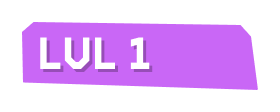
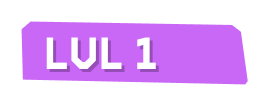
Integrated new level button assets

diff --git a/core/src/edu/cornell/gdiac/rabbeat/LevelSelectorScreen.java b/core/src/edu/cornell/gdiac/rabbeat/LevelSelectorScreen.java
@@ -119,97 +119,49 @@ public class LevelSelectorScreen extends ScreenAdapter {
             switch(i) {
                 case(1):
 //                    hoverButton.setPosition(415, background.getHeight()-hoverButton.getHeight()-161);
-                    levelButton.setPosition(478, background.getHeight()-levelButton.getHeight()-200);
+                    levelButton.setPosition(476.5f, background.getHeight()-levelButton.getHeight()-200.5f);
                     break;
                 case(2):
 //                    hoverButton.setPosition(414, background.getHeight()-hoverButton.getHeight()-213);
-                    levelButton.setPosition(464, background.getHeight()-levelButton.getHeight()-266);
+                    levelButton.setPosition(463.5f, background.getHeight()-levelButton.getHeight()-270);
                     break;
                 case(3):
 //                    hoverButton.setPosition(420, background.getHeight()-hoverButton.getHeight()-227);
-                    levelButton.setPosition(483, background.getHeight()-levelButton.getHeight()-311-3);
+                    levelButton.setPosition(484.5f, background.getHeight()-levelButton.getHeight()-315);
                     break;
                 case(4):
-                    levelButton.setPosition(475, background.getHeight()-levelButton.getHeight()-374-10);
+                    levelButton.setPosition(477.5f, background.getHeight()-levelButton.getHeight()-374.5f);
                     break;
                 case(5):
-                    levelButton.setPosition(750, background.getHeight()-levelButton.getHeight()-214);
+                    levelButton.setPosition(748.5f, background.getHeight()-levelButton.getHeight()-215);
                     break;
                 case(6):
-                    levelButton.setPosition(789, background.getHeight()-levelButton.getHeight()-274);
+                    levelButton.setPosition(788.5f, background.getHeight()-levelButton.getHeight()-276.5f);
                     break;
                 case(7):
-                    levelButton.setPosition(737, background.getHeight()-levelButton.getHeight()-322);
+                    levelButton.setPosition(743, background.getHeight()-levelButton.getHeight()-326);
                     break;
                 case(8):
-                    levelButton.setPosition(734, background.getHeight()-levelButton.getHeight()-390);
+                    levelButton.setPosition(734.5f, background.getHeight()-levelButton.getHeight()-390);
                     break;
                 case(9):
-                    levelButton.setPosition(1024, background.getHeight()-levelButton.getHeight()-209);
+                    levelButton.setPosition(1025.5f, background.getHeight()-levelButton.getHeight()-211);
                     break;
                 case(10):
-                    levelButton.setPosition(1030, background.getHeight()-levelButton.getHeight()-278);
+                    levelButton.setPosition(1031.5f, background.getHeight()-levelButton.getHeight()-280.5f);
                     break;
                 case(11):
-                    levelButton.setPosition(1010, background.getHeight()-levelButton.getHeight()-324);
+                    levelButton.setPosition(1014, background.getHeight()-levelButton.getHeight()-324.5f);
                     break;
                 case(12):
-                    levelButton.setPosition(1029, background.getHeight()-levelButton.getHeight()-387);
+                    levelButton.setPosition(1034.5f, background.getHeight()-levelButton.getHeight()-389.5f);
                     break;
-                  //OLD BUTTONS
-//                case(1):
-//                    levelButton.setPosition(483, background.getHeight()-levelButton.getHeight()-206);
-//                    break;
-//                case(2):
-//                    levelButton.setPosition(469, background.getHeight()-levelButton.getHeight()-271);
-//                    break;
-//                case(3):
-//                    levelButton.setPosition(491, background.getHeight()-levelButton.getHeight()-329);
-//                    break;
-//                case(4):
-//                    levelButton.setPosition(485, background.getHeight()-levelButton.getHeight()-384);
-//                    break;
-//                case(5):
-//                    levelButton.setPosition(760, background.getHeight()-levelButton.getHeight()-230);
-//                    break;
-//                case(6):
-//                    levelButton.setPosition(789, background.getHeight()-levelButton.getHeight()-288);
-//                    break;
-//                case(7):
-//                    levelButton.setPosition(750, background.getHeight()-levelButton.getHeight()-342);
-//                    break;
-//                case(8):
-//                    levelButton.setPosition(750, background.getHeight()-levelButton.getHeight()-397);
-//                    break;
-//                case(9):
-//                    levelButton.setPosition(1041, background.getHeight()-levelButton.getHeight()-228);
-//                    break;
-//                case(10):
-//                    levelButton.setPosition(1036, background.getHeight()-levelButton.getHeight()-281);
-//                    break;
-//                case(11):
-//                    levelButton.setPosition(1024, background.getHeight()-levelButton.getHeight()-337);
-//                    break;
-//                case(12):
-//                    levelButton.setPosition(1041, background.getHeight()-levelButton.getHeight()-397);
-//                    break;
             }
 
 
-//            levelButton.addListener(new ClickListener() {
-//                @Override
-//                public void clicked(InputEvent event, float x, float y) {
-//                    if (finalI <= GameController.getInstance().getLevelsUnlocked()) {
-//                        GameController.getInstance().setCurrentLevelInt(finalI);
-//                        listener.exitScreen(LevelSelectorScreen.this, 0);
-//                    }
-//                }
-//            });
-
             stage.addActor(levelButton);
 
-            //have a separate for loop for the hover images
-            if(i <= 4) {
+            if(i <= 12) {
                 levelButton.addListener(new InputListener() {
                     @Override
                     public boolean mouseMoved(InputEvent event, float x, float y) {
@@ -274,8 +226,8 @@ public class LevelSelectorScreen extends ScreenAdapter {
                     hoverRegion = GameController.getInstance().objectController.getLevelButtonHoverTexture(
                             1);
                     hoverImage1 = new Image(hoverRegion);
-                    hoverImage1.setPosition(411 + 62 - 15,
-                            background.getHeight() - hoverImage1.getHeight() - 161 - 37 + 15);
+                    hoverImage1.setPosition(476.5f-16,
+                            background.getHeight() - hoverImage1.getHeight() - 200.5f+16);
 
                     hoverImage1.addListener(new InputListener() {
                         @Override
@@ -300,8 +252,8 @@ public class LevelSelectorScreen extends ScreenAdapter {
                     hoverRegion = GameController.getInstance().objectController.getLevelButtonHoverTexture(
                             2);
                     hoverImage2 = new Image(hoverRegion);
-                    hoverImage2.setPosition(464 - 20,
-                            background.getHeight() - hoverImage1.getHeight() - 270 + 30);
+                    hoverImage2.setPosition(463.5f-16,
+                            background.getHeight() - hoverImage2.getHeight() - 270+16);
 
                     hoverImage2.addListener(new InputListener() {
                         @Override
@@ -325,8 +277,8 @@ public class LevelSelectorScreen extends ScreenAdapter {
                     hoverRegion = GameController.getInstance().objectController.getLevelButtonHoverTexture(
                             3);
                     hoverImage3 = new Image(hoverRegion);
-                    hoverImage3.setPosition(485.5f - 19,
-                            background.getHeight() - hoverImage3.getHeight() - 315.5f + 20);
+                    hoverImage3.setPosition(484.5f - 16,
+                            background.getHeight() - hoverImage3.getHeight() - 315f + 16);
 
                     hoverImage3.addListener(new InputListener() {
                         @Override
@@ -350,8 +302,8 @@ public class LevelSelectorScreen extends ScreenAdapter {
                     hoverRegion = GameController.getInstance().objectController.getLevelButtonHoverTexture(
                             4);
                     hoverImage4 = new Image(hoverRegion);
-                    hoverImage4.setPosition(478f - 19,
-                            background.getHeight() - hoverImage4.getHeight() - 378 + 10);
+                    hoverImage4.setPosition(477.5f - 16,
+                            background.getHeight() - hoverImage4.getHeight() - 374.5f + 16);
 
                     hoverImage4.addListener(new InputListener() {
                         @Override
@@ -375,8 +327,8 @@ public class LevelSelectorScreen extends ScreenAdapter {
                     hoverRegion = GameController.getInstance().objectController.getLevelButtonHoverTexture(
                             5);
                     hoverImage5 = new Image(hoverRegion);
-                    hoverImage5.setPosition(478f - 19,
-                            background.getHeight() - hoverImage5.getHeight() - 378 + 10);
+                    hoverImage5.setPosition(748.5f - 16,
+                            background.getHeight() - hoverImage5.getHeight() - 215 + 16);
 
                     hoverImage5.addListener(new InputListener() {
                         @Override
@@ -400,8 +352,8 @@ public class LevelSelectorScreen extends ScreenAdapter {
                 } else if (i == 6) {
                     hoverRegion = GameController.getInstance().objectController.getLevelButtonHoverTexture(6);
                     hoverImage6 = new Image(hoverRegion);
-                    hoverImage6.setPosition(478f - 19,
-                            background.getHeight() - hoverImage6.getHeight() - 378 + 10);
+                    hoverImage6.setPosition(788.5f - 16,
+                            background.getHeight() - hoverImage6.getHeight() - 276.5f + 16);
 
                     hoverImage6.addListener(new InputListener() {
                         @Override
@@ -425,8 +377,8 @@ public class LevelSelectorScreen extends ScreenAdapter {
                     hoverRegion = GameController.getInstance().objectController.getLevelButtonHoverTexture(
                             7);
                     hoverImage7 = new Image(hoverRegion);
-                    hoverImage7.setPosition(411 + 62 - 15,
-                            background.getHeight() - hoverImage7.getHeight() - 161 - 37 + 15);
+                    hoverImage7.setPosition(743 - 16,
+                            background.getHeight() - hoverImage7.getHeight() - 326 + 16);
 
                     hoverImage7.addListener(new InputListener() {
                         @Override
@@ -451,8 +403,8 @@ public class LevelSelectorScreen extends ScreenAdapter {
                     hoverRegion = GameController.getInstance().objectController.getLevelButtonHoverTexture(
                             8);
                     hoverImage8 = new Image(hoverRegion);
-                    hoverImage8.setPosition(464 - 20,
-                            background.getHeight() - hoverImage8.getHeight() - 270 + 30);
+                    hoverImage8.setPosition(734.5f - 16,
+                            background.getHeight() - hoverImage8.getHeight() - 390 + 16);
 
                     hoverImage8.addListener(new InputListener() {
                         @Override
@@ -476,8 +428,8 @@ public class LevelSelectorScreen extends ScreenAdapter {
                     hoverRegion = GameController.getInstance().objectController.getLevelButtonHoverTexture(
                             9);
                     hoverImage9 = new Image(hoverRegion);
-                    hoverImage9.setPosition(485.5f - 19,
-                            background.getHeight() - hoverImage9.getHeight() - 315.5f + 20);
+                    hoverImage9.setPosition(1025.5f - 16,
+                            background.getHeight() - hoverImage9.getHeight() - 211 + 16);
 
                     hoverImage9.addListener(new InputListener() {
                         @Override
@@ -501,8 +453,8 @@ public class LevelSelectorScreen extends ScreenAdapter {
                     hoverRegion = GameController.getInstance().objectController.getLevelButtonHoverTexture(
                             10);
                     hoverImage10 = new Image(hoverRegion);
-                    hoverImage10.setPosition(478f - 19,
-                            background.getHeight() - hoverImage10.getHeight() - 378 + 10);
+                    hoverImage10.setPosition(1031.5f - 16,
+                            background.getHeight() - hoverImage10.getHeight() - 280.5f + 16);
 
                     hoverImage10.addListener(new InputListener() {
                         @Override
@@ -526,8 +478,8 @@ public class LevelSelectorScreen extends ScreenAdapter {
                     hoverRegion = GameController.getInstance().objectController.getLevelButtonHoverTexture(
                             11);
                     hoverImage11 = new Image(hoverRegion);
-                    hoverImage11.setPosition(478f - 19,
-                            background.getHeight() - hoverImage11.getHeight() - 378 + 10);
+                    hoverImage11.setPosition(1014 - 16,
+                            background.getHeight() - hoverImage11.getHeight() - 324.5f + 16);
 
                     hoverImage11.addListener(new InputListener() {
                         @Override
@@ -551,8 +503,8 @@ public class LevelSelectorScreen extends ScreenAdapter {
                 } else if (i == 12) {
                     hoverRegion = GameController.getInstance().objectController.getLevelButtonHoverTexture(6);
                     hoverImage12 = new Image(hoverRegion);
-                    hoverImage12.setPosition(478f - 19,
-                            background.getHeight() - hoverImage12.getHeight() - 378 + 10);
+                    hoverImage12.setPosition(1034.5f - 16,
+                            background.getHeight() - hoverImage12.getHeight() - 389.5f + 16);
 
                     hoverImage12.addListener(new InputListener() {
                         @Override
@@ -587,6 +539,14 @@ public class LevelSelectorScreen extends ScreenAdapter {
         hoverImage2.setVisible(hover2);
         hoverImage3.setVisible(hover3);
         hoverImage4.setVisible(hover4);
+        hoverImage5.setVisible(hover5);
+        hoverImage6.setVisible(hover6);
+        hoverImage7.setVisible(hover7);
+        hoverImage8.setVisible(hover8);
+        hoverImage9.setVisible(hover9);
+        hoverImage10.setVisible(hover10);
+        hoverImage11.setVisible(hover11);
+        hoverImage12.setVisible(hover12);
 
         if(hover1)
             stage.addActor(hoverImage1);
@@ -596,6 +556,22 @@ public class LevelSelectorScreen extends ScreenAdapter {
             stage.addActor(hoverImage3);
         if(hover4)
             stage.addActor(hoverImage4);
+        if(hover5)
+            stage.addActor(hoverImage5);
+        if(hover6)
+            stage.addActor(hoverImage6);
+        if(hover7)
+            stage.addActor(hoverImage7);
+        if(hover8)
+            stage.addActor(hoverImage8);
+        if(hover9)
+            stage.addActor(hoverImage9);
+        if(hover10)
+            stage.addActor(hoverImage10);
+        if(hover11)
+            stage.addActor(hoverImage11);
+        if(hover12)
+            stage.addActor(hoverImage12);
 
         Gdx.gl.glClear(GL20.GL_COLOR_BUFFER_BIT);
         stage.act(Math.min(Gdx.graphics.getDeltaTime(), 1 / 30f));

diff --git a/core/src/edu/cornell/gdiac/rabbeat/ObjectController.java b/core/src/edu/cornell/gdiac/rabbeat/ObjectController.java
@@ -506,6 +506,14 @@ public class ObjectController {
         levelButtonHover2 = directory.getEntry("ui:levelButtonsHoverState:level2ButtonHover", Texture.class);
         levelButtonHover3 = directory.getEntry("ui:levelButtonsHoverState:level3ButtonHover", Texture.class);
         levelButtonHover4 = directory.getEntry("ui:levelButtonsHoverState:level4ButtonHover", Texture.class);
+        levelButtonHover5 = directory.getEntry("ui:levelButtonsHoverState:level5ButtonHover", Texture.class);
+        levelButtonHover6 = directory.getEntry("ui:levelButtonsHoverState:level6ButtonHover", Texture.class);
+        levelButtonHover7 = directory.getEntry("ui:levelButtonsHoverState:level7ButtonHover", Texture.class);
+        levelButtonHover8 = directory.getEntry("ui:levelButtonsHoverState:level8ButtonHover", Texture.class);
+        levelButtonHover9 = directory.getEntry("ui:levelButtonsHoverState:level9ButtonHover", Texture.class);
+        levelButtonHover10 = directory.getEntry("ui:levelButtonsHoverState:level10ButtonHover", Texture.class);
+        levelButtonHover11 = directory.getEntry("ui:levelButtonsHoverState:level11ButtonHover", Texture.class);
+        levelButtonHover12 = directory.getEntry("ui:levelButtonsHoverState:level12ButtonHover", Texture.class);
 
         victoryScreenBackground = new TextureRegion(directory.getEntry("ui:victoryScreen", Texture.class));
         level1VS = new TextureRegion(directory.getEntry("ui:lvl1VS", Texture.class));
@@ -1941,14 +1949,14 @@ public class ObjectController {
             case(2): return levelButtonHover2;
             case(3): return levelButtonHover3;
             case(4): return levelButtonHover4;
-            case(5): return levelButtonHover1;
-            case(6): return levelButtonHover1;
-            case(7): return levelButtonHover1;
-            case(8): return levelButtonHover1;
-            case(9): return levelButtonHover1;
-            case(10): return levelButtonHover1;
-            case(11): return levelButtonHover1;
-            case(12): return levelButtonHover1;
+            case(5): return levelButtonHover5;
+            case(6): return levelButtonHover6;
+            case(7): return levelButtonHover7;
+            case(8): return levelButtonHover8;
+            case(9): return levelButtonHover9;
+            case(10): return levelButtonHover10;
+            case(11): return levelButtonHover11;
+            case(12): return levelButtonHover12;
         }
         return null;
     }
